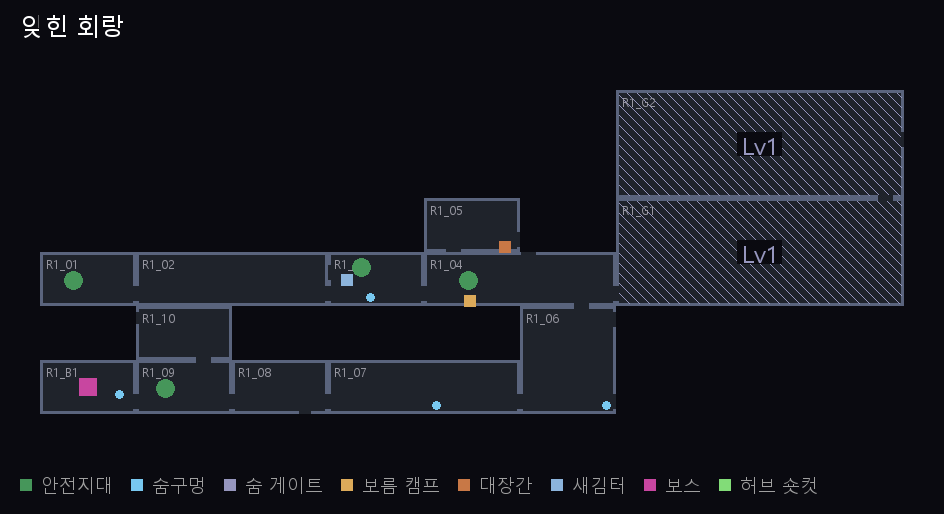
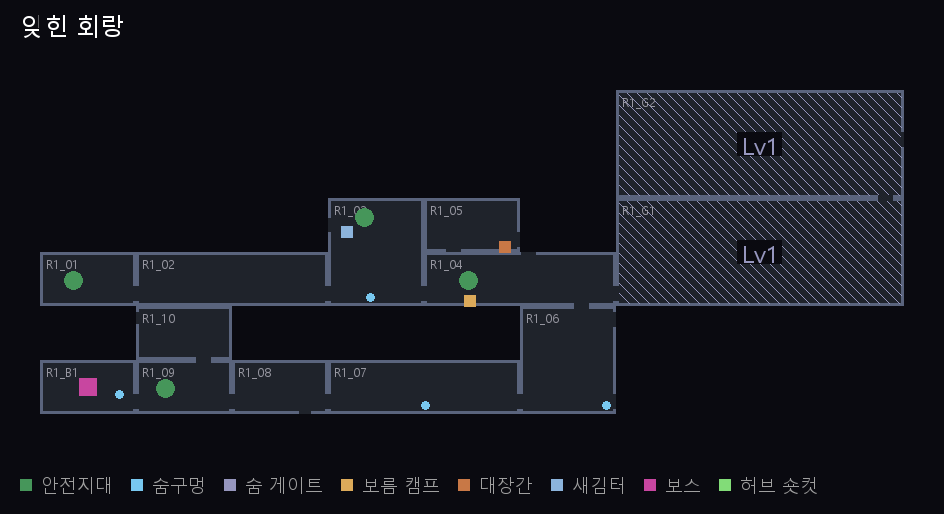
docs: T66 R1 지도 갱신 — R1_03 1×2(숨은 새김터)·R1_07 숨구멍, R_all 숏컷 점선, 전체맵 R1 표

Changed region(s): [[0.3379, 0.3735, 0.4608, 0.5603], [0.4301, 0.7782, 0.4608, 0.8093]]

diff --git a/개발문서v3.5.md b/개발문서v3.5.md
@@ -1955,5 +1955,5 @@ v2 보스 3체를 이 구조로 옮긴다 (T45).
 | 159 | T57 | `R6_01`에서 위로 되돌아가면 `R1_08` 봉인 구멍 위로 밀어올려지고, 옆으로 움직이지 않으면 다시 `R6_01`로 떨어짐 (18장 129번 `R1_04`와 같음, 헤드리스: → 키를 누르고 있으면 `R1_08` 바닥에 내려서 `R1_07`까지 걸어감). 목표판이면 T55를 건너뛰는 쌍낫 사마귀·그림자 사냥꾼 재테마는 T42에서 이미 끝나 있어(144번) 코드 변경 없음. 게이트·회랑 그림은 도형(14.5) | T19 | |
 | 160 | T66 | 잠금 전투방 `lockdown`에 선택 필드 **`area` [x, y, w, h]**(잠기는 구역)를 더함. 닫힐 때 이 안의 기존 적만 '다 잡아야' 대상 (맵디테일 9.3에 없음). `R1_07`처럼 아레나 문 하나를 출구가 아닌 구역 경계(낮은 굴 입구 x 1450)에 둘 때, 구역 밖의 갑각 전사를 세면 잡을 수 없어 문이 영영 안 열리기 때문. `reward_ore`도 선택 필드(없으면 `LOCKDOWN.reward_ore`). 방 JSON 필드를 읽으려고 `systems/room.py`도 고침(`lockdown` 보관, `make_enemies`로 적 생성 공용화) — T66 파일 목록에는 없음 |
 | 161 | T66 | 잠금 웨이브 예고 뒤 플레이어가 `LOCKDOWN.min_dist`(200) 안에 있으면 그 자리는 **멀어질 때까지 기다렸다가** 나타남 (자리를 옮기면 벽 안에 생길 수 있어서). 잠긴 동안 죽으면 문만 열고, 부활 때 방이 새로 만들어지므로 다음에 들어오면 처음 웨이브부터 |
-| 162 | T66 | `R1_03` 숨은 새김터: 큰길 광석 덩어리 `chunk_a`·`chunk_b`를 잔해 더미(x 700~900, 윗면 220) 양옆 디딤으로 둠(지형이라 큰길 가운데 두면 걸림). 갱 첫 발판은 균열 바로 위 `[720, 384, 160, 16]` 윗면 400 (잔해 더미에서 꾹 점프 = 434). 석판 `tablet_r1_carver_b` 마지막 줄을 "바람이 위로 빨려 드는 틈을 올려다보라."로 바꿈. **보름 힌트(`borum_hint.json`)는 아직 "캠프 옆 벽에서 바람 소리"** — 새김터가 천장 위로 갔으니 맞지 않음, 대사 파일이 T66 범위 밖이라 그대로 둠 (확인 필요). `docs/전체맵.md`·`docs/map/` R1 지도는 이 브랜치에 없어 다시 만들지 않음 |
+| 162 | T66 | `R1_03` 숨은 새김터: 큰길 광석 덩어리 `chunk_a`·`chunk_b`를 잔해 더미(x 700~900, 윗면 220) 양옆 디딤으로 둠(지형이라 큰길 가운데 두면 걸림). 갱 첫 발판은 균열 바로 위 `[720, 384, 160, 16]` 윗면 400 (잔해 더미에서 꾹 점프 = 434). 석판 `tablet_r1_carver_b` 마지막 줄을 "바람이 위로 빨려 드는 틈을 올려다보라."로 바꿈. **보름 힌트(`borum_hint.json`)는 아직 "캠프 옆 벽에서 바람 소리"** — 새김터가 천장 위로 갔으니 맞지 않음, 대사 파일이 T66 범위 밖이라 그대로 둠 (확인 필요). `docs/전체맵.md` R1 표와 `docs/map/R1_corridor.png`·`R_all.png`는 **해결**: 맵디테일 6장 6번대로 다시 그림 (R1_03 1×2, R1_07 숨구멍 위치, R_all의 R3 숏컷 점선 끝을 새 L2로) |
 | 163 | T66 | 헤드리스 봇 확인: 꾹 점프는 **꼭대기까지 누르고 있어야** 214 (`JUMP_CUT = 0`이라 올라가는 중에 떼면 바로 멈춤). 균열벽 밑 발판 끝과 다음 발판 사이 틈 48~50px(원래 `R1_07` x 900~950, `R1_08` x 540~588)에 빠지던 것을 석판 턱을 균열 밑까지 늘려 메움. 위로 뛰어오를 발판은 출발 발판과 가로 50px 이상 떨어뜨림(겹치면 머리를 박음). R1 큰길 지나가는 시간(봇, 전후): R1_02 8.4→8.5초, R1_03 3.4→3.6초, R1_07 7.5→7.6초(잠금 해제 뒤), R1_08 3.7→3.8초 = ±20% 안 |

diff --git a/docs/전체맵.md b/docs/전체맵.md
@@ -76,11 +76,11 @@
 |---|---|---|---|
 | R1_01 | 1×1 | R→02 | 🔥 깨어나는 방, 공기 갱 연출 |
 | R1_02 | 2×1 | L→01, R→03 | 새김터 석판 A, 갱도 벌레 |
-| R1_03 | 1×1 | L→02, **L2→R3_01**, R→04 | 🔥 💨 **새김터(룬지기 오람)** |
+| R1_03 | 1×2 | L→02, **L2→R3_01**, R→04 | 🔥 💨 **새김터(룬지기 오람)** — 위층에 숨김. 큰길(아래층) 잔해 더미 위 천장 균열을 깨고 갱으로 올라감, L2(R3 숏컷)는 위층 |
 | R1_04 | 2×1 | L→03, R→G1, U→05, D→06 | ★ 🔥 **허브(보름 캠프)**, 연습 석상 |
 | R1_05 | 1×1 | D→04, **R→R2_12** | 하르(NPC) |
-| R1_06 | 1×2 | L→07, U→04, **R→R4_01, R2→R5_01** | 💨 광맥벽, 박쥐·벌레 |
-| R1_07 | 2×1 | L→08, R→06 | 💨 희귀 광석 A, 갑각 전사 |
+| R1_06 | 1×2 | L→07, U→04, **R→R4_01, R2→R5_01** | 💨 광맥벽, 착지층 2장, 박쥐·벌레 2 |
+| R1_07 | 2×1 | L→08, R→06 | 💨 희귀 광석 A, 갑각 전사(낮은 굴), **잠금 전투방**(왼쪽 2층 회랑) |
 | R1_08 | 1×1 | L→09, R→07, **D→R6_01** | **봉인문(핵)**, 희귀 광석 B |
 | R1_09 | 1×1 | L→B1, R→08, U→10 | 🔥 B1 앞 안전지대, 새김터 석판 B |
 | R1_10 | 1×1 | **L→R3_01**, D→09 | 지도석 R1 |
